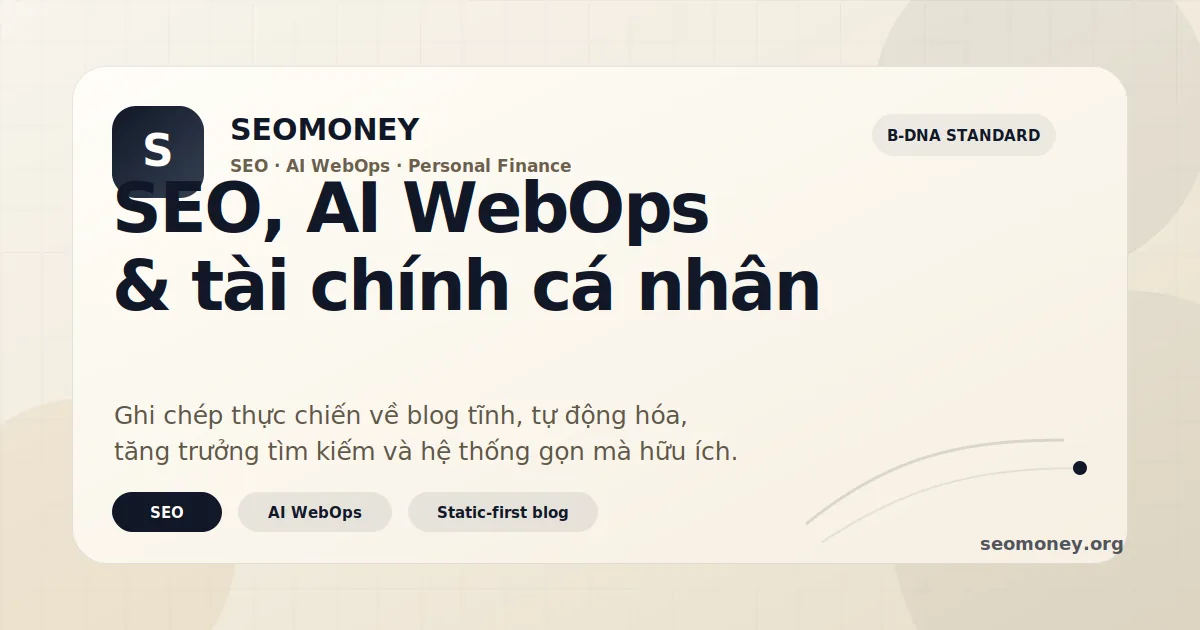
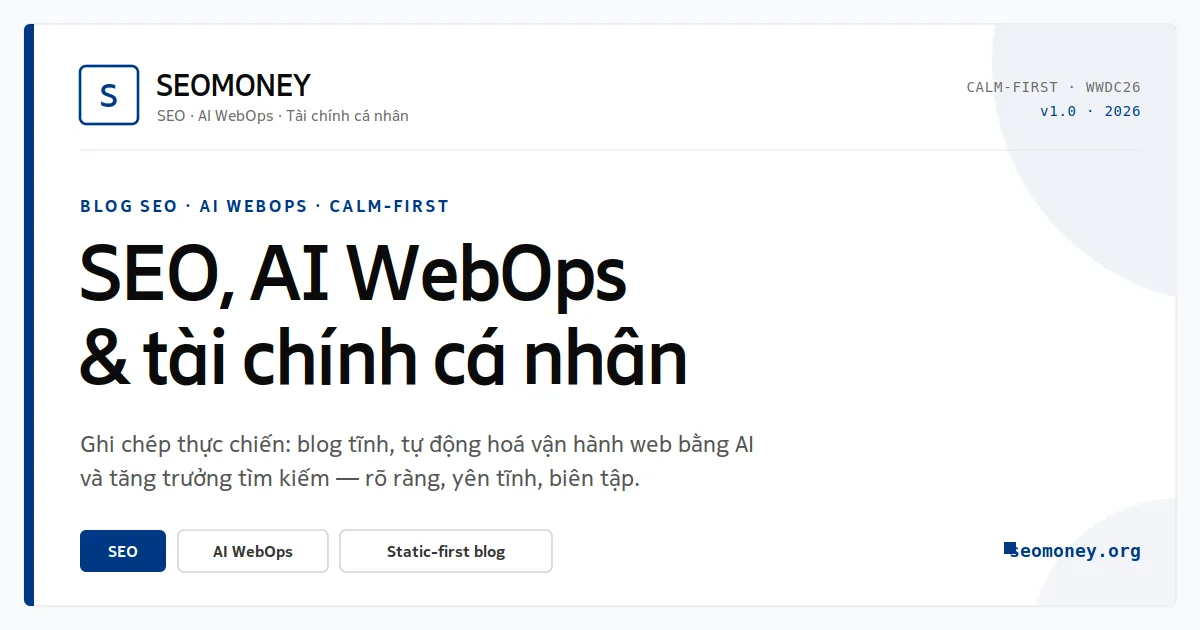
feat(seo/og): WWDC26 calm-first OG card + JPG default + hardened schema
Google search/social was serving a .webp default OG image (Zalo/LinkedIn
and some Facebook scrapers don't render .webp) and the card design didn't
match the SEOMONEY brand. Redesign + rewire so previews show a clean,
on-brand, universally-rendered image.

OG image
- Redesign static/img/og/seomoney-og.svg to the WWDC26 "calm-first"
  language from /wwdc26-branding/: deep-blue #003784 accent, white card on
  #f8f9fb, 4px sharp corners, blue left-accent bar, Ericsson Hilda display
  + Nokia Pure Text body (full Vietnamese) + mono meta, left-aligned
  editorial hierarchy (eyebrow -> title -> sub -> chips).
- Add 1200x630 JPG default static/img/og/seomoney-og.jpg (77KB, q90) as the
  primary og:image/twitter:image; regenerate the .og.webp twin + manifest.
- macros/img.html social_image_url fallback -> seomoney-og.jpg (JPG renders
  everywhere; .webp twin kept as modern-format seed).

Schema (base.html JSON-LD)
- Organization logo -> raster PNG static/img/brand/seomoney-logo.png
  (512x512 ImageObject w/ dimensions) + Organization image; add inLanguage.
- Homepage/section -> @user with standalone WebSite + Organization nodes
  (Google reads the brand logo from a top-level Organization).
- BlogPosting branch kept intact (headline/image/author/publisher/date).

QA
- Strengthen BRAND vaccine: assert seomoney-og.jpg exists and img.html
  wires the JPG default (keeps .svg + .og.webp seed checks).
- qa_vaccines gate PASS (BRAND + OG-IMAGE, 0 fail), unit tests PASS,
[…]

diff --git a/templates/base.html b/templates/base.html
@@ -201,7 +201,9 @@
          1) ẢNH THẬT đầu tiên trong thân bài (page.content) — bỏ qua /placeholder/
          2) page.extra.og_image (override) → page.extra.thumbnail (nếu là ảnh thật)
          3) section.extra.thumbnail (nếu là ảnh thật)
-         4) Card mặc định S-DNA dựng sẵn (https://assets.seomoney.org/img/og/seomoney-og.og.webp)
+         4) Card mặc định S-DNA: JPG 1200×630 /img/og/seomoney-og.jpg (định dạng
+            được MỌI scraper render — Zalo/LinkedIn/Facebook; twin .og.webp
+            seomoney-og.og.webp ship kèm làm seed định dạng hiện đại).
        Ảnh /placeholder/ bị coi là "chưa có ảnh" → rơi xuống card S-DNA cho đẹp,
        thay vì hiện ảnh placeholder generic khi share. #}
     {% set_global og_src = "" %}
@@ -311,27 +313,46 @@
             "url": "{{ config.base_url | safe }}",
             "logo": {
                 "@type": "ImageObject",
-                "url": "{{ get_url(path=config.extra.brand_mark | default(value='img/brand/seomoney-mark.svg')) | safe }}"
-            }
+                "url": "{{ get_url(path=config.extra.brand_mark | default(value='img/brand/seomoney-logo.png')) | safe }}",
+                "width": 512,
+                "height": 512
+            },
+            "image": "{{ config.base_url | safe }}/img/og/seomoney-og.jpg"
         },
         "mainEntityOfPage": {
             "@type": "WebPage",
             "@id": "{{ canonical_url | safe }}"
         },
+        "inLanguage": "vi-VN",
         "description": {{ page_description | json_encode | safe }}
         {% else %}
-        "@type": "WebSite",
-        "name": {{ config.title | json_encode | safe }},
-        "url": "{{ config.base_url | safe }}",
-        "description": {{ page_description | json_encode | safe }},
-        "publisher": {
-            "@type": "Organization",
-            "name": {{ config.title | json_encode | safe }},
-            "logo": {
-                "@type": "ImageObject",
-                "url": "{{ get_url(path=config.extra.brand_mark | default(value='img/brand/seomoney-mark.svg')) | safe }}"
+        {# Homepage / section / taxonomy → @graph: standalone WebSite + Organization
+           (Google reads Organization.logo for the brand/knowledge-panel logo from a
+           top-level node, not a nested publisher). #}
+        "@graph": [
+            {
+                "@type": "WebSite",
+                "@id": "{{ config.base_url | safe }}/#website",
+                "name": {{ config.title | json_encode | safe }},
+                "url": "{{ config.base_url | safe }}",
+                "description": {{ page_description | json_encode | safe }},
+                "inLanguage": "vi-VN",
+                "publisher": { "@id": "{{ config.base_url | safe }}/#organization" }
+            },
+            {
+                "@type": "Organization",
+                "@id": "{{ config.base_url | safe }}/#organization",
+                "name": {{ config.title | json_encode | safe }},
+                "url": "{{ config.base_url | safe }}",
+                "logo": {
+                    "@type": "ImageObject",
+                    "url": "{{ get_url(path=config.extra.brand_mark | default(value='img/brand/seomoney-logo.png')) | safe }}",
+                    "width": 512,
+                    "height": 512
+                },
+                "image": "{{ config.base_url | safe }}/img/og/seomoney-og.jpg"
             }
-        }
+        ]
         {% endif %}
     }
     </script>

diff --git a/templates/macros/img.html b/templates/macros/img.html
@@ -48,13 +48,17 @@
    - .jpg/.jpeg/.png → .webp (optimize-images.yml replaces rasters with WebP and
              DELETES the original; the raster URL would 404 in production).
    - .webp → kept as-is.
-   - empty / unknown ext → built-in local S-DNA default card (/img/og/seomoney-og.og.webp).
+   - empty / unknown ext → built-in local S-DNA default card
+     (/img/og/seomoney-og.jpg). JPG is the og:image default because Zalo,
+     LinkedIn and some Facebook scrapers do NOT reliably render .webp social
+     cards; the .og.webp twin (seomoney-og.og.webp) ships alongside as the
+     modern-format seed but JPG is the universally-rendered fallback.
 
    Output is ALWAYS absolute + HTTPS (http:// and // are upgraded to https://;
    root-relative paths are prefixed with base_url).
    ---------------------------------------------------------------------------- #}
 {% macro social_image_url(src="", base_url="") -%}
-{%- set fallback = base_url ~ "/img/og/seomoney-og.og.webp" -%}
+{%- set fallback = base_url ~ "/img/og/seomoney-og.jpg" -%}
 {%- set out = "" -%}
 {%- if src is ending_with(".svg") -%}{%- set out = src | replace(from=".svg", to=".og.webp") -%}
 {%- elif src is ending_with(".jpg") -%}{%- set out = src | replace(from=".jpg", to=".webp") -%}

diff --git a/scripts/qa_vaccines.py b/scripts/qa_vaccines.py
@@ -1331,14 +1331,22 @@ def check_seomoney_brand(ctx: Ctx) -> CheckResult:
     if '"Duy Nguyen"' not in aj:
         fails.append("author.json: tên tác giả 'Duy Nguyen' bị mất (phải giữ author identity)")
 
-    # OG default (SEOMONEY) — svg + committed twin.
+    # OG default (SEOMONEY) — svg source + committed JPG default + webp twin seed.
+    # JPG is the og:image default (Zalo/LinkedIn/Facebook render it reliably; .webp
+    # is not universally supported by social scrapers); .og.webp ships as the
+    # modern-format twin seed so it never 404s.
     if not ctx.exists("static/img/og/seomoney-og.svg"):
         fails.append("thiếu static/img/og/seomoney-og.svg (OG default SEOMONEY)")
+    if not ctx.exists("static/img/og/seomoney-og.jpg"):
+        fails.append("thiếu static/img/og/seomoney-og.jpg (OG default JPG — universally rendered)")
     if not ctx.exists("static/img/og/seomoney-og.og.webp"):
         fails.append("thiếu static/img/og/seomoney-og.og.webp (twin OG — seed để không 404)")
     base = ctx.read("templates/base.html") or ""
     if "seomoney-og.og.webp" not in base:
-        fails.append("templates/base.html: og:image default không trỏ SEOMONEY OG twin")
+        fails.append("templates/base.html: mất tham chiếu SEOMONEY OG twin (.og.webp seed)")
+    img_macro = ctx.read("templates/macros/img.html") or ""
+    if "seomoney-og.jpg" not in img_macro:
+        fails.append("templates/macros/img.html: social_image_url fallback không trỏ seomoney-og.jpg (JPG default)")
 
     # Placeholder fallback set incl. random variants.
     for ph in ("placeholder.svg", "placeholder-2.svg", "placeholder-3.svg"):